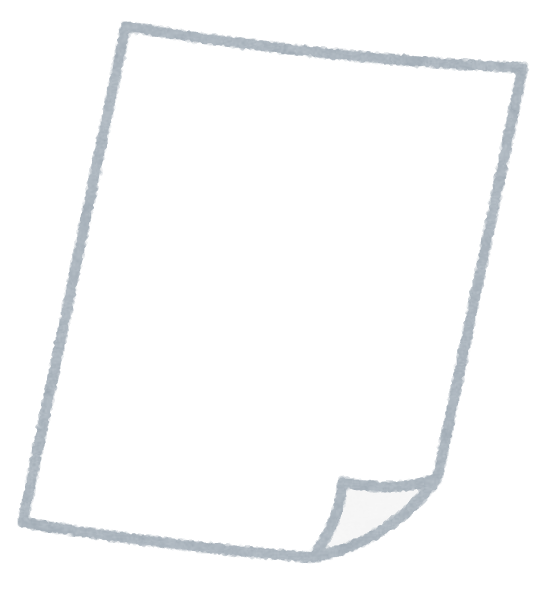
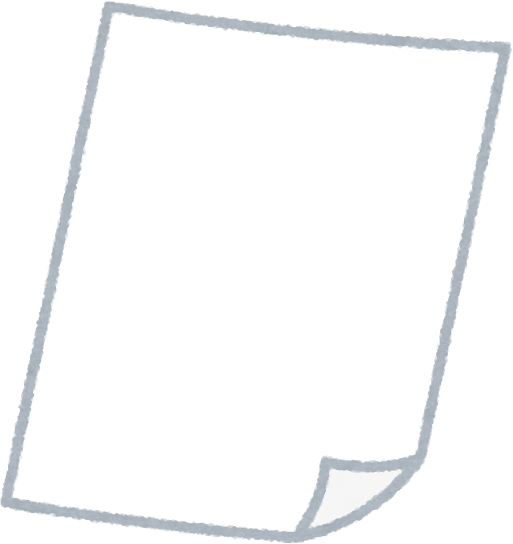
feat: ステージ１難易度調整

Changed region(s): [[0.0, 0.0, 0.9981, 1.0]]

diff --git a/src/stages/stage1.ts b/src/stages/stage1.ts
@@ -12,11 +12,13 @@ export const stage1: StageData = {
   screens: [
     {
       background: "/niihama/bessi.jpg",
+      hazardImage: "/niihama/teki/dou.png",
       platforms: [
         { x: 200, y: 50, w: 120, h: 20 },
         { x: 450, y: 80, w: 120, h: 20 },
+        { x: 700, y: 0, w: 50, h: 120 },
       ],
-      hazards: [],
+      hazards: [{ x: 750, y: 0, w: 10, h: 10 }],
       deathMessage:
         "新居浜市にある別子銅山\n跡東洋のマチュピチュと呼ばれている",
     },
@@ -25,10 +27,10 @@ export const stage1: StageData = {
       hazardImage: "/niihama/teki/dou.png",
       platforms: [
         { x: 150, y: 60, w: 100, h: 20 },
-        { x: 350, y: 100, w: 100, h: 20 },
+        { x: 350, y: 130, w: 100, h: 20 },
         { x: 550, y: 60, w: 100, h: 20 },
       ],
-      hazards: [{ x: 280, y: 0, w: 20, h: 20 }],
+      hazards: [{ x: 400, y: 0, w: 20, h: 20 }],
       deathMessage:
         "新居浜市のマイントピア別子の観光と移動ができる観光列車\n乗るとわくわくする",
     },
@@ -38,9 +40,11 @@ export const stage1: StageData = {
       platforms: [
         { x: 100, y: 70, w: 100, h: 20 },
         { x: 300, y: 120, w: 100, h: 20 },
-        { x: 500, y: 70, w: 100, h: 20 },
+        { x: 500, y: 170, w: 100, h: 20 },
+        { x: 700, y: 250, w: 100, h: 20 },
+        { x: 900, y: 400, w: 100, h: 20 },
       ],
-      hazards: [{ x: 220, y: 0, w: 20, h: 20 }],
+      hazards: [{ x: 500, y: 0, w: 20, h: 20 }],
       deathMessage:
         "四国中央市に位置する藤原大橋\n紅葉と渓谷の壮大な絶景が広がる",
     },
@@ -54,7 +58,7 @@ export const stage1: StageData = {
       hazards: [{ x: 300, y: 0, w: 20, h: 20 }],
       deathMessage: "四国中央市にある川之江城\n天守閣からは絶景が見れるらしい",
       clearMessage: "おめでとう",
-      goal: { x: 600, y: 0 }
+      goal: { x: 600, y: 0 },
     },
   ],
 };